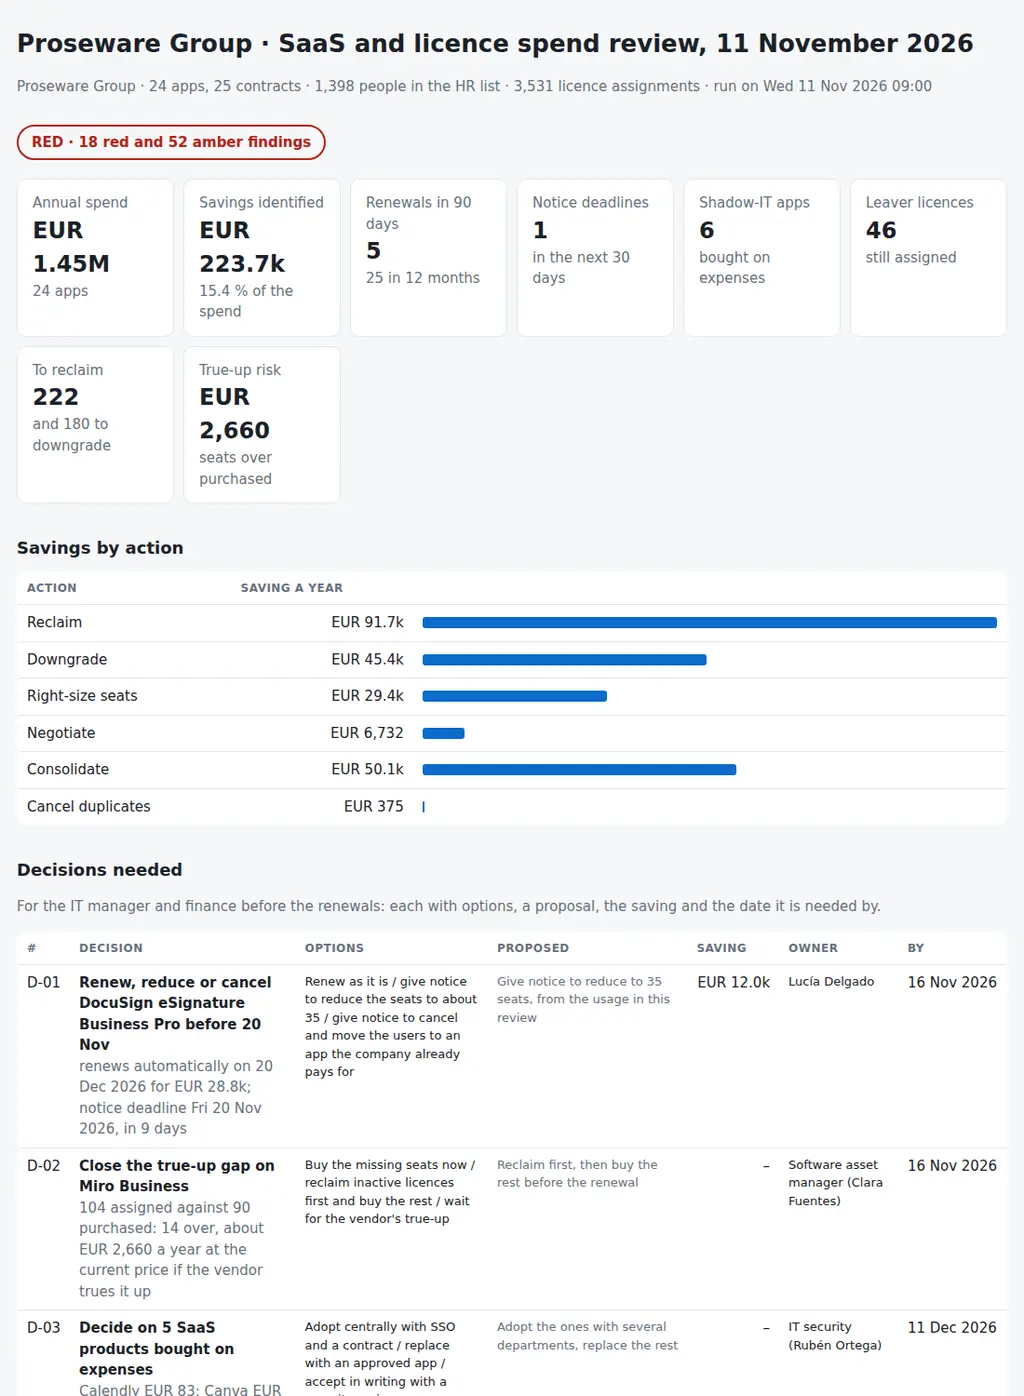
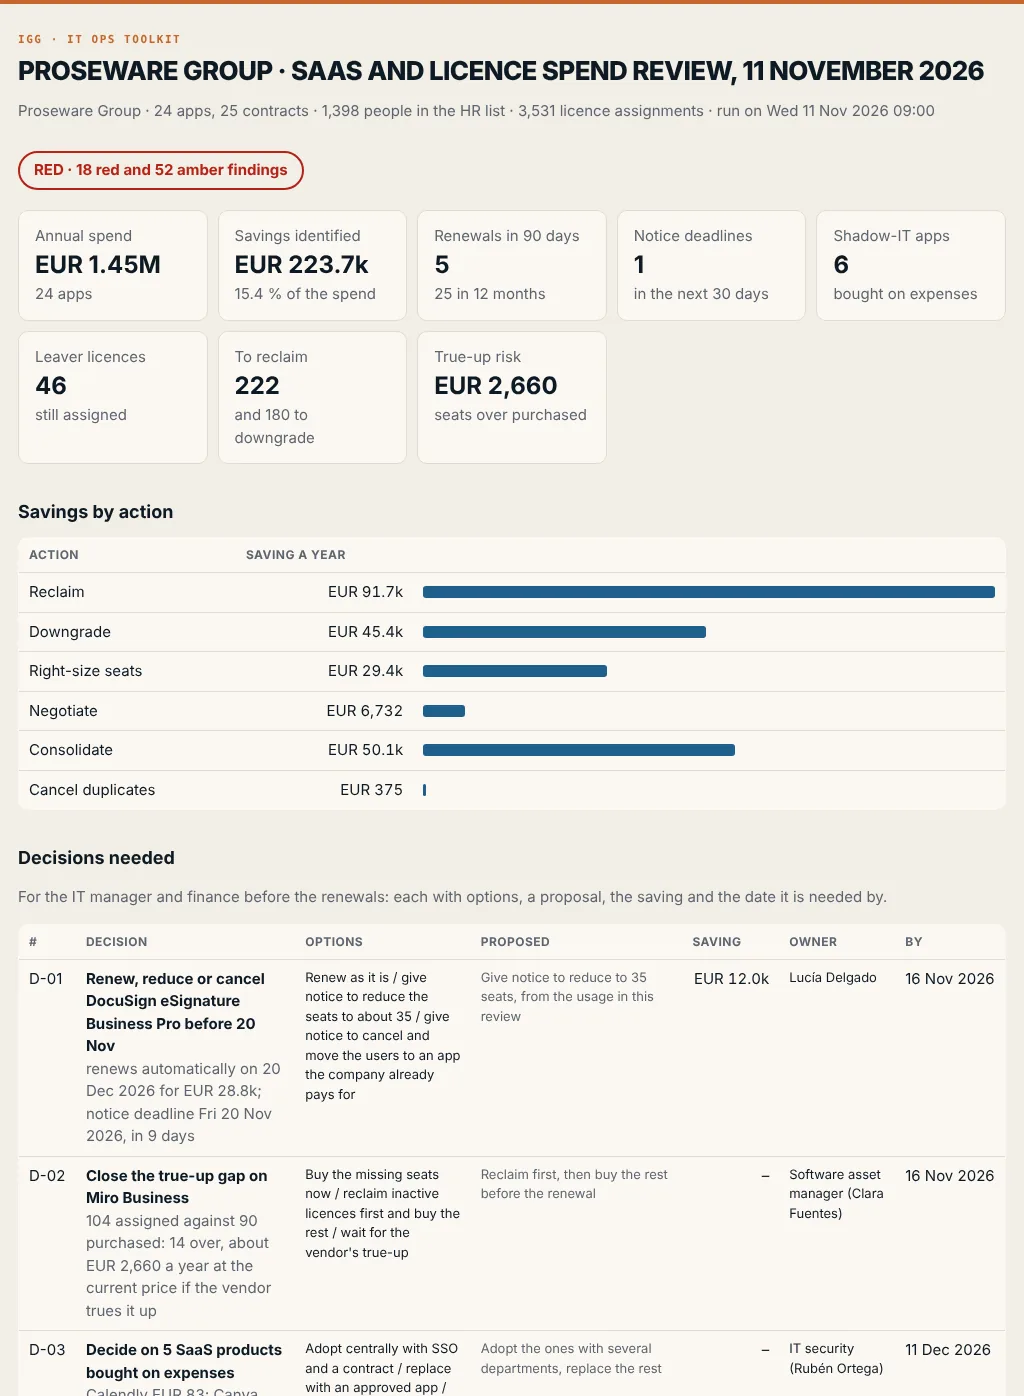
Report: IGG colours (paper, ink and the orange accent) and a new screenshot

diff --git a/licencereview/report.py b/licencereview/report.py
@@ -171,11 +171,11 @@ def pack_md(d: Data, rv: dict, title: str) -> str:
 # ---------------------------------------------------------------- html
 
 CSS = """
-:root{--bg:#f6f7f8;--card:#fff;--ink:#1b2128;--muted:#66717c;--line:#e2e5e9;--ok:#1e7a4c;--warn:#a46200;--bad:#b42318;--info:#0b6bcb;
---g:#cfeedd;--a:#fbe6bd;--r:#f8d2cd;--n:#eef0f2;--act:#2f8f5b;--idle:#8fb9a3;--off:#d9822b;--lv:#c0392b;--free:#c9ced4}
-@media (prefers-color-scheme:dark){:root{--bg:#13171b;--card:#1b2127;--ink:#e7eaee;--muted:#9aa5b0;--line:#2b333b;--ok:#4cc38a;--warn:#f0a83a;
---bad:#f2685c;--info:#5aa9f0;--g:#173527;--a:#3d2f12;--r:#45201d;--n:#232a31;--act:#3fae74;--idle:#5f8b74;--off:#e0913f;--lv:#e05a4c;--free:#46505a}}
-*{box-sizing:border-box}body{margin:0;background:var(--bg);color:var(--ink);font:15px/1.5 system-ui,-apple-system,Segoe UI,sans-serif}
+:root{--bg:#f2eee6;--card:#fbf8f3;--ink:#0e1a24;--muted:#5d6670;--line:#e2dccf;--ok:#1e7a4c;--warn:#a46200;--bad:#b42318;--info:#1f5f8b;
+--g:#cfeedd;--a:#fbe6bd;--r:#f8d2cd;--n:#e8e2d6;--act:#2f8f5b;--idle:#8fb9a3;--off:#d9822b;--lv:#c0392b;--free:#c9ced4}
+@media (prefers-color-scheme:dark){:root{--bg:#0e1a24;--card:#142331;--ink:#f2eee6;--muted:#a9b3bb;--line:#24364a;--ok:#4cc38a;--warn:#f0a83a;
+--bad:#f2685c;--info:#5aa9f0;--g:#173527;--a:#3d2f12;--r:#45201d;--n:#1b2b3b;--act:#3fae74;--idle:#5f8b74;--off:#e0913f;--lv:#e05a4c;--free:#46505a}}
+*{box-sizing:border-box}body{border-top:4px solid #c4672b}h1{font-weight:800;letter-spacing:-.025em;text-transform:uppercase;line-height:1.05}h1::before{content:"IGG · IT Ops toolkit";display:block;font:600 11px/1.4 ui-monospace,SFMono-Regular,Menlo,monospace;letter-spacing:.14em;text-transform:uppercase;color:#c4672b;margin-bottom:10px}body{margin:0;background:var(--bg);color:var(--ink);font:15px/1.5 system-ui,-apple-system,Segoe UI,sans-serif}
 main{max-width:1100px;margin:0 auto;padding:28px 18px 60px}h1{font-size:26px;margin:0 0 4px}h2{font-size:18px;margin:34px 0 12px}
 .muted{color:var(--muted)}.tiles{display:grid;grid-template-columns:repeat(auto-fit,minmax(160px,1fr));gap:10px;margin-top:20px}
 .tile{background:var(--card);border:1px solid var(--line);border-radius:10px;padding:14px 16px}.tile b{display:block;font-size:24px}
